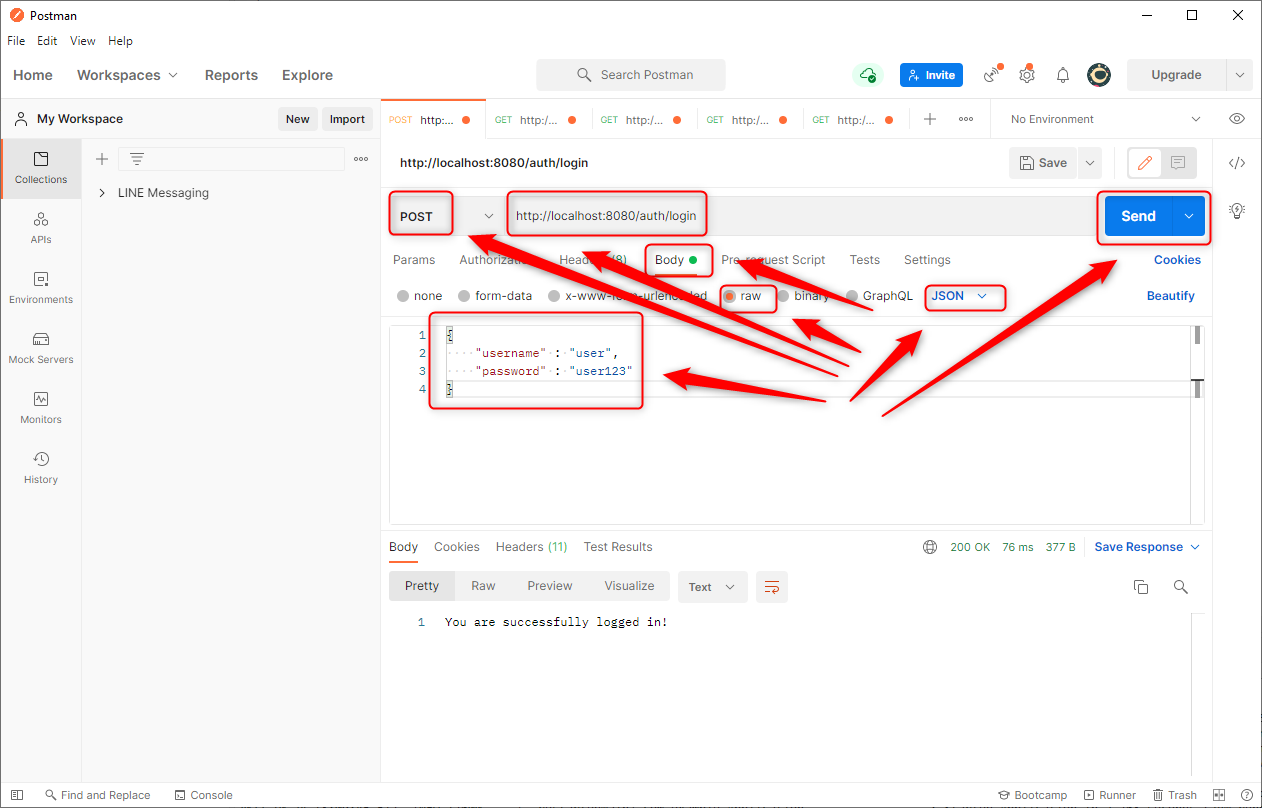
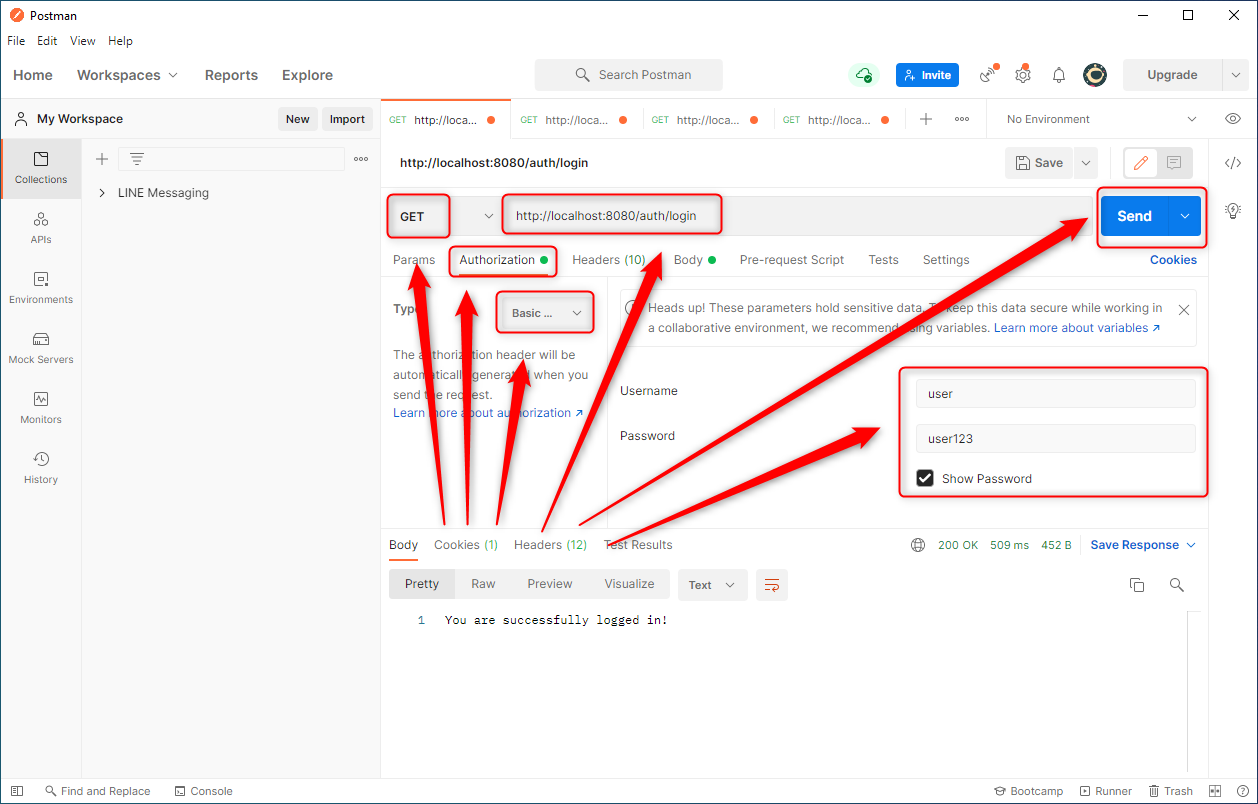
Update project spring-security-rest-basic-custom

diff --git a/spring-boot/others/security/authentication-authorization/no-sso/no-oauth2/single/spring-security-rest-basic-custom/README.md b/spring-boot/others/security/authentication-authorization/no-sso/no-oauth2/single/spring-security-rest-basic-custom/README.md
@@ -2,11 +2,11 @@ DESCRIPTION
 -----------
 
 ##### Goal
-The goal of this project is to present how to implement **Custom authentication and authorization** using **Java** application with **Spring Boot** framework. Custom authentication and authorization is based on **Spring Security** and enables log in by sending "username" and "password" as JSON in the body of POST request.
+The goal of this project is to present how to implement **Basic Authentication and Authorization** in **custom** way using **Java** application with **Spring Boot** framework. Basic Authentication and Authorization in custom way is based on **Spring Security** but without usage automatic configuration. Reading header is implemented manually without automatic Spring Security mechanism.
 
 ##### Flow
 The following flow takes place in this project:
-1. User uses any Client API (for instance Postman) for sending POST request to Server to log in. Values of "username" and "password" are sent as JSON in the body of request 
+1. User uses any Client API (for instance Postman) for sending GET request to Server to log in. Basic Authentication should be included in this request 
 1. Server validates credentials. If everything is ok user is authenticated and appropriate text is sent back to Client API.
 1. Client API displays text to the User 
 1. User uses any Client API for sending GET request to Server for secured content
@@ -46,11 +46,11 @@ USAGE
 
 Usage steps:
 1. Start application with `mvn spring-boot:run`
-1. Send POST request (JSON with credentials: "username" : "user", "password" : "user123") with Postman to URL `http://localhost:8080/auth/login`
+1. Send GET request (Basic Authentication credentials: user/user123) with Postman to URL `http://localhost:8080/auth/login`
 1. Send GET request with Postman to URL `http://localhost:8080/`
 1. Send GET request with Postman to URL `http://localhost:8080/user`
 1. Send GET request with Postman to URL `http://localhost:8080/admin`
-1. Send POST request (JSON with credentials: "username" : "admin", "password" : "admin123") with Postman to URL `http://localhost:8080/auth/login`
+1. Send GET request (Basic Authentication credentials: admin/admin123) with Postman to URL `http://localhost:8080/auth/login`
 1. Send GET request with Postman to URL `http://localhost:8080/`
 1. Send GET request with Postman to URL `http://localhost:8080/user`
 1. Send GET request with Postman to URL `http://localhost:8080/admin`
